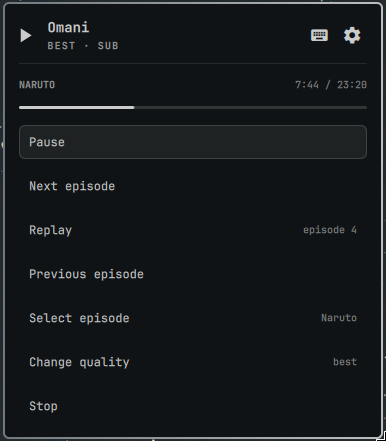
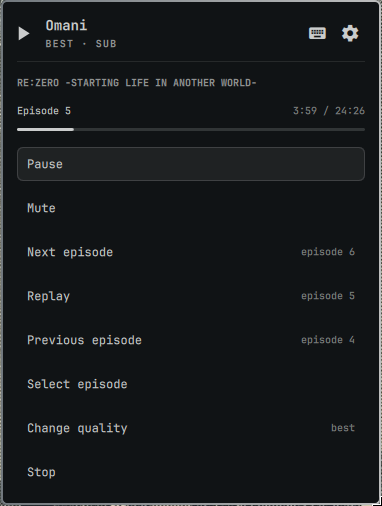
docs: show the panel as it looks now
The player menu gained mute and the episode it is on; the settings view gained
about. Both shots predated them, and the settings one still reported 1.1.0.

diff --git a/README.md b/README.md
@@ -61,7 +61,7 @@ so typing `hjkl` types text — `Esc` returns you to the list.
 Choosing a series from **Continue watching** starts the episode you are on, at
 the second you stopped, and opens its menu:
 
-![The player menu: pause, next episode, replay, previous episode, select episode, change quality and stop, under the series name with its clock](priv/controls.png)
+![The player menu: pause, mute, next episode, replay, previous episode, select episode, change quality and stop, under the series name with the episode it is on and its clock](priv/controls.png)
 
 The menu carries a bar for the episode it controls: how far in it is, and
 dimmed while it is paused.
@@ -96,7 +96,7 @@ Settings live in the widget's entry in `~/.config/omarchy/shell.json`. Press
 `s`, or the gear in the header, to change them without leaving the panel. All
 of them hot-reload.
 
-![The settings view: quality, audio, counts as watched, the version, and clear watch history](priv/settings.png)
+![The settings view: quality, audio, counts as watched, the version, clear watch history and about](priv/settings.png)
 
 Everything but `historyLimit` is editable from the panel; that one is set in
 `shell.json`.
